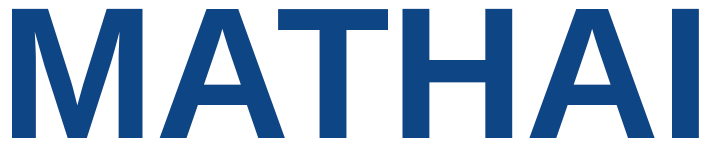
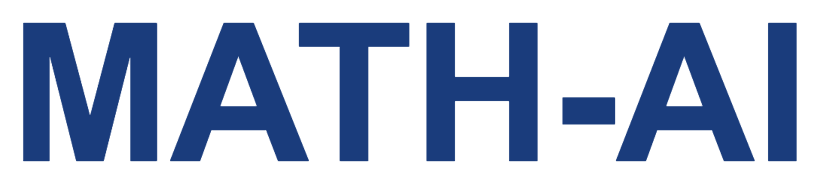
update image

diff --git a/_site/404.html b/_site/404.html
@@ -20,7 +20,7 @@
 
   <!--  -->
 
-  <link rel="alternate" type="application/rss+xml" title="MATHAI4ED Workshop at NeurIPS'21 - Math AI for Education" href="/feed.xml" />
+  <link rel="alternate" type="application/rss+xml" title="MATH-AI Workshop at NeurIPS'22 - Toward Human-Level Mathematical Reasoning" href="/feed.xml" />
 
   
 
@@ -80,7 +80,7 @@
 ">
   
 
-  <meta name="image" property="og:image" content="https://mathai4ed.github.io/img/mathai4ed.png">
+  <meta name="image" property="og:image" content="https://mathai2022.github.io/img/mathai2022.png">
   
   <meta property="og:type" content="website" />
 
@@ -142,7 +142,7 @@
         <span class="icon-bar"></span>
       </button>
       
-      <a class="navbar-brand" href="http://localhost:4000/">MATHAI4ED Workshop at NeurIPS'21</a>
+      <a class="navbar-brand" href="http://localhost:4000/">MATH-AI Workshop at NeurIPS'22</a>
       
     </div>
 
@@ -205,7 +205,7 @@
 
 
 
-<a href="https://mathai4ed.github.io/">About</a>
+<a href="https://mathai2022.github.io/">About</a>
 
         </li>
          
@@ -237,7 +237,7 @@
       <!--<h4>Sponsor:</h4>
       <a href='https://www.amazon.science/'><img src="http://localhost:4000/2020/img/amazon_science.png" height="140px"></a>-->
       <div class="col-lg-8 col-lg-offset-2 col-md-10 col-md-offset-1">
-        <ul class="list-inline text-center footer-links"><li><a href="mailto:mathai4ed.neurips2021@gmail.com" title="Email me"><span class="fa-stack fa-lg" aria-hidden="true">
+        <ul class="list-inline text-center footer-links"><li><a href="mailto:mathai2022.neurips2021@gmail.com" title="Email me"><span class="fa-stack fa-lg" aria-hidden="true">
                   <i class="fa fa-circle fa-stack-2x"></i>
                   <i class="fa fa-envelope fa-stack-1x fa-inverse"></i>
                 </span>
@@ -251,7 +251,7 @@
 
       
       &nbsp;&bull;&nbsp;
-      <a href="http://localhost:4000">mathai4ed.github.io</a>
+      <a href="http://localhost:4000">mathai2022.github.io</a>
       
 
       

diff --git a/_site/cfp/index.html b/_site/cfp/index.html
@@ -12,17 +12,17 @@
     function load() { if (window.location.hash) shiftWindow(); }
   </script>
   
-  <title>MATHAI4ED Workshop at NeurIPS'21 - Math AI for Education</title>
+  <title>MATH-AI Workshop at NeurIPS'22 - Toward Human-Level Mathematical Reasoning</title>
 
   <meta name="author" content="" />
 
   
-  <meta name="description" content="Math AI for Education: Bridging the Gap Between Research and Smart Education">
+  <meta name="description" content="MATH-AI: Toward Human-Level Mathematical Reasoning">
   
 
   <!--  -->
 
-  <link rel="alternate" type="application/rss+xml" title="MATHAI4ED Workshop at NeurIPS'21 - Math AI for Education" href="/feed.xml" />
+  <link rel="alternate" type="application/rss+xml" title="MATH-AI Workshop at NeurIPS'22 - Toward Human-Level Mathematical Reasoning" href="/feed.xml" />
 
   
 

diff --git a/_site/schedule/index.html b/_site/schedule/index.html
@@ -12,17 +12,17 @@
     function load() { if (window.location.hash) shiftWindow(); }
   </script>
   
-  <title>MATHAI4ED Workshop at NeurIPS'21 - Math AI for Education</title>
+  <title>MATH-AI Workshop at NeurIPS'22 - Toward Human-Level Mathematical Reasoning</title>
 
   <meta name="author" content="" />
 
   
-  <meta name="description" content="Math AI for Education: Bridging the Gap Between Research and Smart Education">
+  <meta name="description" content="MATH-AI: Toward Human-Level Mathematical Reasoning">
   
 
   <!--  -->
 
-  <link rel="alternate" type="application/rss+xml" title="MATHAI4ED Workshop at NeurIPS'21 - Math AI for Education" href="/feed.xml" />
+  <link rel="alternate" type="application/rss+xml" title="MATH-AI Workshop at NeurIPS'22 - Toward Human-Level Mathematical Reasoning" href="/feed.xml" />
 
   
 

diff --git a/_site/papers/index.html b/_site/papers/index.html
@@ -12,17 +12,17 @@
     function load() { if (window.location.hash) shiftWindow(); }
   </script>
   
-  <title>MATHAI4ED Workshop at NeurIPS'21 - Math AI for Education</title>
+  <title>MATH-AI Workshop at NeurIPS'22 - Toward Human-Level Mathematical Reasoning</title>
 
   <meta name="author" content="" />
 
   
-  <meta name="description" content="Math AI for Education: Bridging the Gap Between Research and Smart Education">
+  <meta name="description" content="MATH-AI: Toward Human-Level Mathematical Reasonin">
   
 
   <!--  -->
 
-  <link rel="alternate" type="application/rss+xml" title="MATHAI4ED Workshop at NeurIPS'21 - Math AI for Education" href="/feed.xml" />
+  <link rel="alternate" type="application/rss+xml" title="MATH-AI Workshop at NeurIPS'22 - Toward Human-Level Mathematical Reasoning" href="/feed.xml" />
 
   
 

diff --git a/_site/index.html b/_site/index.html
@@ -12,7 +12,7 @@
     function load() { if (window.location.hash) shiftWindow(); }
   </script>
   
-  <title>MATHAI Workshop at NeurIPS'22</title>
+  <title>MATH-AI Workshop at NeurIPS'22</title>
 
   <meta name="author" content="" />
 
@@ -22,7 +22,7 @@
 
   <!--  -->
 
-  <link rel="alternate" type="application/rss+xml" title="MATHAI2022 Workshop at NeurIPS'22" href="/feed.xml" />
+  <link rel="alternate" type="application/rss+xml" title="Math-AI Workshop at NeurIPS'22" href="/feed.xml" />
 
   
 
@@ -193,7 +193,7 @@
 
 
 
-<a href="https://mathai4ed.github.io/">About</a>
+<a href="https://mathai2022.github.io/">About</a>
 
         </li>
          

diff --git a/_site/speakers/index.html b/_site/speakers/index.html
@@ -20,7 +20,7 @@
 
   <!--  -->
 
-  <link rel="alternate" type="application/rss+xml" title="MATHAI4ED Workshop at NeurIPS'21 - Math AI for Education" href="/feed.xml" />
+  <link rel="alternate" type="application/rss+xml" title="MATH-AI Workshop at NeurIPS'22 - Toward Human-Level Mathematical Reasoning" href="/feed.xml" />
 
   
 
@@ -90,7 +90,7 @@
 ">
   
 
-  <meta name="image" property="og:image" content="https://mathai4ed.github.io/img/mathai4ed.png">
+  <meta name="image" property="og:image" content="https://mathai2022.github.io/img/mathai2022.png">
   
   <meta property="og:type" content="website" />
 

diff --git a/_includes/head.html b/_includes/head.html
@@ -84,7 +84,7 @@
   <meta property="og:description" content="{{ page.content | strip_html | xml_escape | truncatewords: 50 }}">
   {% endif %}
 
-  <meta name="image" property="og:image" content="https://mathai4ed.github.io/img/mathai4ed.png">
+  <meta name="image" property="og:image" content="https://mathai2022.github.io/img/mathai2022.png">
   
   <meta property="og:type" content="website" />
 

diff --git a/_site/tags/index.html b/_site/tags/index.html
@@ -20,7 +20,7 @@
 
   <!--  -->
 
-  <link rel="alternate" type="application/rss+xml" title="MATHAI4ED Workshop at NeurIPS'21 - Math AI for Education" href="/feed.xml" />
+  <link rel="alternate" type="application/rss+xml" title="MATH-AI Workshop at NeurIPS'22 - Toward Human-Level Mathematical Reasoning" href="/feed.xml" />
 
   
 
